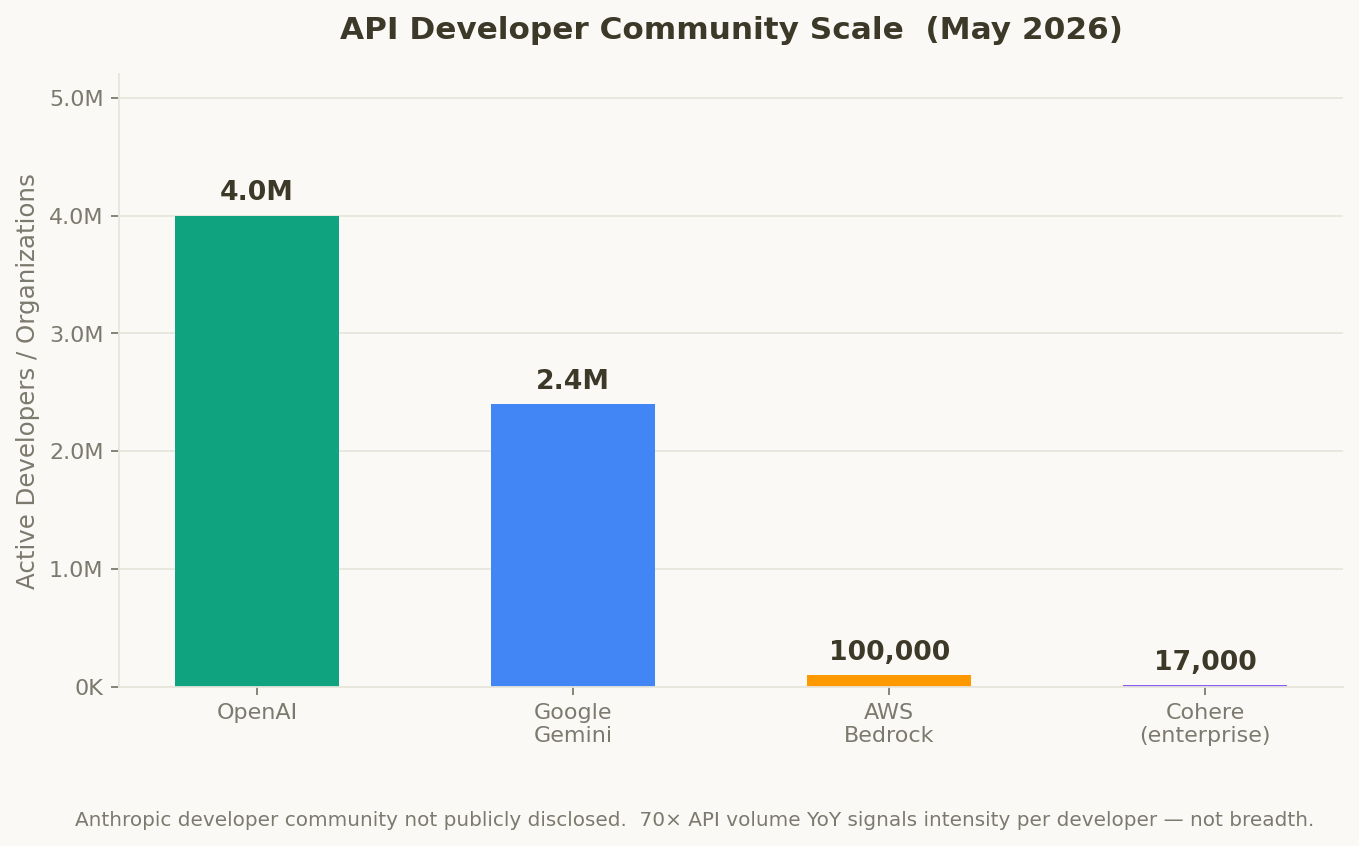
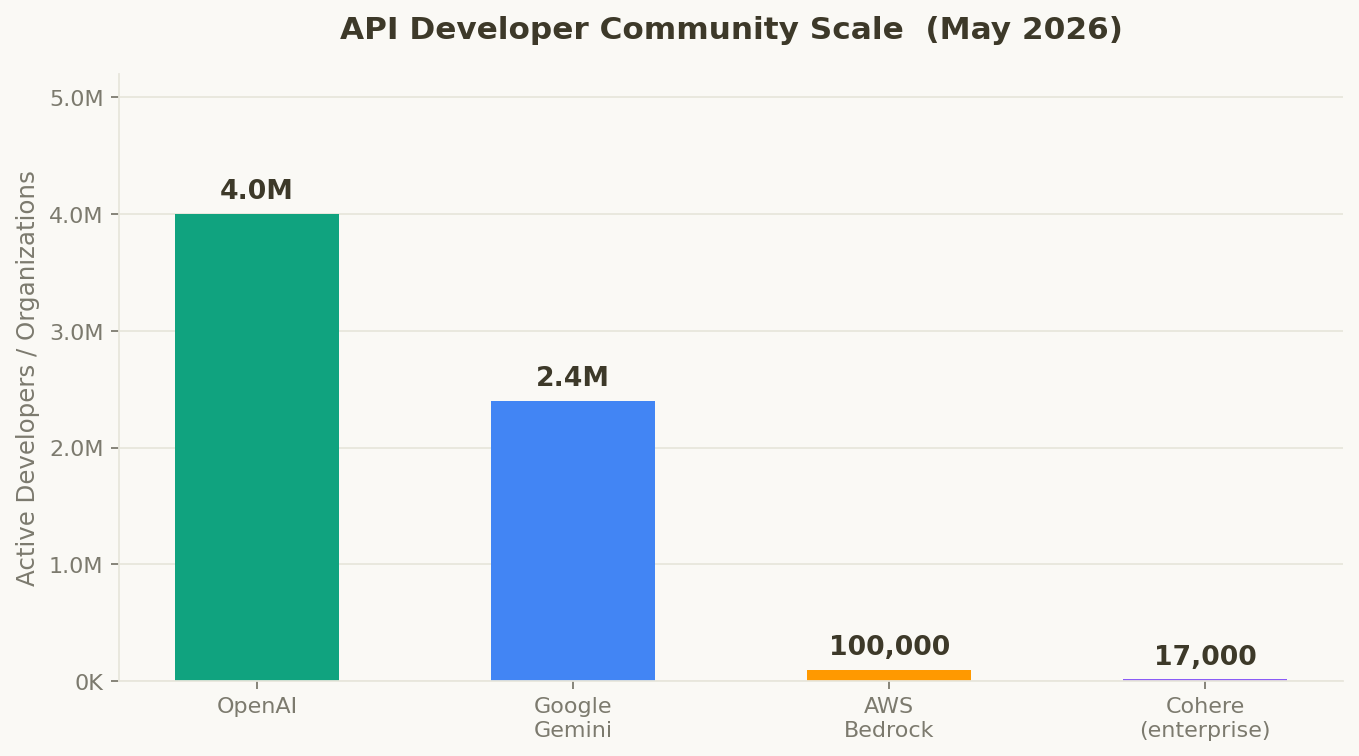
Remove overlapping footnote from chart2

diff --git a/visualize_anthropic.py b/visualize_anthropic.py
@@ -88,8 +88,8 @@ save("chart1_arr_comparison.png")
 # ══════════════════════════════════════════════════════════════════════════════
 # Chart 2 — Developer Community Scale
 # ══════════════════════════════════════════════════════════════════════════════
-fig, ax = plt.subplots(figsize=(9, 5.8))
-fig.subplots_adjust(left=0.1, right=0.95, top=0.84, bottom=0.18)
+fig, ax = plt.subplots(figsize=(9, 5.2))
+fig.subplots_adjust(left=0.1, right=0.95, top=0.87, bottom=0.14)
 
 labels = ["OpenAI", "Google\nGemini", "AWS\nBedrock", "Cohere\n(enterprise)"]
 devs   = [4_000_000, 2_400_000, 100_000, 17_000]
@@ -109,11 +109,6 @@ for bar, val in zip(bars, devs):
     ax.text(bar.get_x() + bar.get_width()/2, bar.get_height() + 80_000,
             label, ha="center", va="bottom", fontsize=12, fontweight="bold", color=TEXT)
 
-# footnote inside figure area — clear of x-axis tick labels
-fig.text(0.5, 0.03,
-         "Anthropic developer community not publicly disclosed.  "
-         "70× API volume YoY signals intensity per developer — not breadth.",
-         ha="center", fontsize=9, color=MUTED)
 save("chart2_developer_scale.png")
 
 # ══════════════════════════════════════════════════════════════════════════════